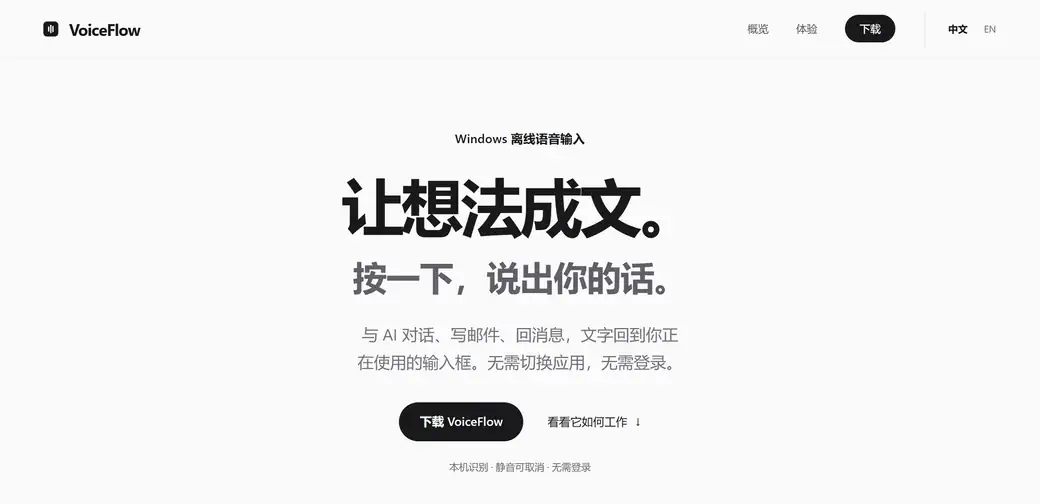
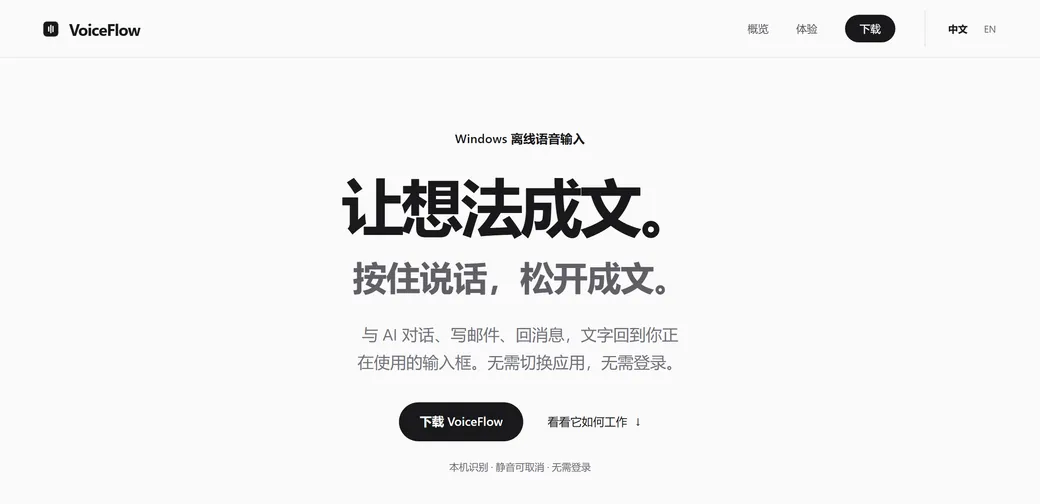
VoiceFlow v0.3.12：作品页和首页演示改为按住说话，官网图重截，926 项测试

Changed region(s): [[0.3692, 0.506, 0.6462, 0.5952]]

diff --git a/work/voiceflow/index.html b/work/voiceflow/index.html
@@ -3,7 +3,7 @@
 <head>
 <meta charset="utf-8">
 <meta name="viewport" content="width=device-width, initial-scale=1, viewport-fit=cover">
-<title>VoiceFlow：按一下，说话，文字就出现在光标处 · 秦徐俊</title>
+<title>VoiceFlow：按住说话，松开，文字就出现在光标处 · 秦徐俊</title>
 <meta name="description" content="Windows 上的语音输入，全程在本机，不联网，不用登录。">
 <meta name="color-scheme" content="light dark">
 <meta name="theme-color" content="#ffffff">
@@ -18,7 +18,7 @@
 <link rel="alternate" hreflang="en" href="https://qinxujunai.github.io/en/work/voiceflow/">
 <link rel="alternate" hreflang="x-default" href="https://qinxujunai.github.io/work/voiceflow/">
 <meta property="og:type" content="website">
-<meta property="og:title" content="VoiceFlow：按一下，说话，文字就出现在光标处 · 秦徐俊">
+<meta property="og:title" content="VoiceFlow：按住说话，松开，文字就出现在光标处 · 秦徐俊">
 <meta property="og:description" content="Windows 上的语音输入，全程在本机，不联网，不用登录。">
 <meta property="og:url" content="https://qinxujunai.github.io/work/voiceflow/">
 <meta property="og:image" content="https://qinxujunai.github.io/og.png">
@@ -27,7 +27,7 @@
 <meta itemprop="image" content="https://qinxujunai.github.io/share.png">
 <meta name="twitter:card" content="summary_large_image">
 <meta name="author" content="秦徐俊">
-<script src="/assets/site.js?v=1ef3cf9a71" defer></script>
+<script src="/assets/site.js?v=f02f074eb1" defer></script>
 </head>
 <body class="case-page">
 <a class="skip" href="#main">跳到正文</a>
@@ -53,12 +53,12 @@
 <article class="case" aria-labelledby="case-title">
 <header class="tile plain case-head" id="top">
 <p class="eyebrow">VoiceFlow · 怎么做的</p>
-<h1 id="case-title"><span class="clause">按<wbr>一下</span> <span class="clause">说话</span> <span class="clause">文字<wbr>就<wbr>出现<wbr>在<wbr>光标处</span></h1>
+<h1 id="case-title"><span class="clause">按住<wbr>说话</span> <span class="clause">松开</span> <span class="clause">文字<wbr>就<wbr>出现<wbr>在<wbr>光标处</span></h1>
 <p class="sub"><span class="clause">Windows 上<wbr>的<wbr>语音<wbr>输入</span> <span class="clause">全程<wbr>在<wbr>本<wbr>机</span> <span class="clause">不<wbr>联<wbr>网</span> <span class="clause">不用<wbr>登录</span></p>
 <p class="cta"><a class="more-link" href="https://github.com/qinxujunai/VoiceFlow/releases/latest" rel="noopener"><span class="lt">下载 Windows 版</span><span class="chev out" aria-hidden="true">↗</span><span class="visually-hidden"> VoiceFlow</span></a></p>
 <div class="case-frame"><div class="frame">
 
-<span class="frame-view"><picture><source media="(max-width: 733px)" srcset="/assets/media/site-voiceflow-card-1080.webp" width="1080" height="1440"><img class="frame-img" src="/assets/media/site-voiceflow-1040.webp" srcset="/assets/media/site-voiceflow-1040.webp 1040w, /assets/media/site-voiceflow-2080.webp 2080w" sizes="1040px" width="1040" height="504" alt="VoiceFlow 的网站：让想法成文。按一下，说出你的话。" loading="lazy" decoding="async"></picture></span>
+<span class="frame-view"><picture><source media="(max-width: 733px)" srcset="/assets/media/site-voiceflow-card-1080.webp" width="1080" height="1440"><img class="frame-img" src="/assets/media/site-voiceflow-1040.webp" srcset="/assets/media/site-voiceflow-1040.webp 1040w, /assets/media/site-voiceflow-2080.webp 2080w" sizes="1040px" width="1040" height="504" alt="VoiceFlow 的网站：让想法成文。按住说话，松开成文。" loading="lazy" decoding="async"></picture></span>
 </div></div>
 </header>
 <section class="tile dark results" aria-labelledby="results-title">
@@ -66,7 +66,7 @@
 <dl class="facts">
 <div><dt>GitHub Star</dt><dd data-count="124"><!--live-->124<!--/live--></dd></div>
 <div><dt>0–10 秒<wbr>录音<wbr>至<wbr>发出<wbr>粘贴<wbr>指令，<wbr>v0.3.1 测试<wbr>第 95 百分<wbr>位</dt><dd>427 ms</dd></div>
-<div><dt>v0.3.10 自动<wbr>化<wbr>测试<wbr>（2026-10-22）</dt><dd>829 项</dd></div>
+<div><dt>v0.3.12 自动<wbr>化<wbr>测试<wbr>（2026-11-03）</dt><dd>926 项</dd></div>
 <div><dt>截至 2026-10-22 的<wbr>正式<wbr>发布</dt><dd>16 次</dd></div>
 </dl>
 <p class="footnote"><!--live-->GitHub 数据<wbr>每 6 小时<wbr>自动<wbr>更新，<wbr>最近<wbr>一次 <span class="nw">2026-11-06</span><!--/live--></p>
@@ -87,7 +87,7 @@
 <p>我<wbr>用<wbr>语音<wbr>跟 AI 聊天、<wbr>做<wbr>开发，<wbr>一<wbr>说<wbr>就是<wbr>五<wbr>六<wbr>分钟，<wbr>甚至<wbr>十<wbr>几<wbr>分钟。</p>
 <p>试过<wbr>的<wbr>工具<wbr>各有<wbr>各<wbr>的<wbr>好：<wbr>国外<wbr>有能<wbr>用 AI 校<wbr>对<wbr>的，<wbr>要<wbr>付<wbr>费；<wbr>国内<wbr>的<wbr>输入<wbr>法<wbr>识别<wbr>得<wbr>很好。<wbr>但<wbr>我<wbr>碰到<wbr>三<wbr>个<wbr>问题。<wbr>第一，<wbr>说<wbr>完<wbr>一<wbr>结束，<wbr>网<wbr>一<wbr>卡，<wbr>整段<wbr>话<wbr>就<wbr>没了。<wbr>第二，<wbr>最后<wbr>几<wbr>句<wbr>常常<wbr>识别<wbr>不出来，<wbr>可<wbr>我要<wbr>的是<wbr>完整：<wbr>说<wbr>到<wbr>最后<wbr>一个<wbr>字，<wbr>就得<wbr>出来<wbr>最后<wbr>一个<wbr>字。<wbr>第三，<wbr>光<wbr>标<wbr>不在<wbr>输入<wbr>框<wbr>里，<wbr>说<wbr>完<wbr>的话<wbr>直接<wbr>消失。</p>
 <p>所以<wbr>我<wbr>想要<wbr>一个<wbr>全<wbr>在<wbr>本<wbr>机<wbr>跑<wbr>的<wbr>工具：<wbr>终稿<wbr>识别<wbr>处理<wbr>完整录音，<wbr>并<wbr>尝试<wbr>将<wbr>结果<wbr>复制<wbr>到<wbr>剪贴板、<wbr>保存<wbr>到<wbr>本地<wbr>历史。<wbr>识别<wbr>或<wbr>保存<wbr>可能<wbr>失败，<wbr>部分<wbr>应用<wbr>需要<wbr>手<wbr>动<wbr>粘贴。</p>
-<p>正在<wbr>验证<wbr>的<wbr>开发<wbr>版<wbr>支持<wbr>按住 F2 或<wbr>右 Ctrl 说话、<wbr>松开<wbr>结束，<wbr>也<wbr>保留<wbr>轻<wbr>按<wbr>切换。<wbr>正式<wbr>下载<wbr>版<wbr>目前<wbr>仍<wbr>使用<wbr>轻<wbr>按<wbr>切换。</p>
+<p>从 v0.3.12 起，<wbr>按住 F2 或<wbr>右 Ctrl 说话、<wbr>松开<wbr>结束，<wbr>也<wbr>保留<wbr>轻<wbr>按<wbr>切换。</p>
 </section>
 <section class="case-sec" id="s2" aria-labelledby="s2-title">
 <h2 id="s2-title"><span class="clause">快<wbr>和<wbr>准，</span><span class="clause">交给<wbr>两<wbr>个<wbr>模型</span></h2>
@@ -127,12 +127,12 @@
 <h2 id="s8-title"><span class="clause">验证</span></h2>
 <p>v0.3.1 在<wbr>发布<wbr>机上<wbr>实<wbr>测<wbr>（Windows 11 · Ryzen 7 5800H）。<wbr>每一<wbr>档 20 个<wbr>样本，<wbr>数字<wbr>是 <span class="nw">95%</span> 的<wbr>情况<wbr>都能<wbr>做到<wbr>的<wbr>值：</p>
 <ul class="metrics"><li><span class="m-v">6 ms</span><span class="m-l">按下 F2 到<wbr>第一<wbr>帧<wbr>反馈</span><span class="m-g">门槛 ≤ 50 ms</span></li><li><span class="m-v">427 ms</span><span class="m-l">10 秒<wbr>内的<wbr>录音，<wbr>停止<wbr>到<wbr>发出<wbr>粘贴<wbr>指令</span><span class="m-g">门槛 ≤ 500 ms</span></li><li><span class="m-v">541 ms</span><span class="m-l">两分钟<wbr>录音，<wbr>停止<wbr>到<wbr>发出<wbr>粘贴<wbr>指令</span><span class="m-g">门槛 ≤ 2.5 s</span></li><li><span class="m-v">1,024 MB</span><span class="m-l">安装<wbr>后<wbr>私有<wbr>内存<wbr>（v0.3.1）</span><span class="m-g">早期 1,324.6 MB</span></li></ul>
-<ul class="bullets"><li>v0.3.10 于 2026 年 10 月 22 日<wbr>通过 829 项<wbr>自动<wbr>化<wbr>测试；<wbr>v0.3.3 时<wbr>是 396 项。</li><li>500 次<wbr>录音<wbr>生命<wbr>周期，<wbr>10,000 组<wbr>随机<wbr>的<wbr>开始、<wbr>停止、<wbr>取消、<wbr>退出<wbr>序列，<wbr>50,000 个<wbr>异常<wbr>文本<wbr>模糊<wbr>用例。</li><li>从 v0.3.2 起，<wbr>每<wbr>个<wbr>版本<wbr>都<wbr>附<wbr>一份<wbr>发布<wbr>与<wbr>验证<wbr>记录。</li><li>用户<wbr>提过<wbr>的 12 条<wbr>反馈，<wbr>每<wbr>条<wbr>都<wbr>写下<wbr>结论<wbr>和<wbr>理由：<wbr>采纳、<wbr>按<wbr>门槛<wbr>暂<wbr>缓，<wbr>或者<wbr>拒绝。</li></ul>
+<ul class="bullets"><li>v0.3.12 于 2026 年 11 月 3 日<wbr>通过 926 项<wbr>自动<wbr>化<wbr>测试；<wbr>v0.3.3 时<wbr>是 396 项。</li><li>500 次<wbr>录音<wbr>生命<wbr>周期，<wbr>10,000 组<wbr>随机<wbr>的<wbr>开始、<wbr>停止、<wbr>取消、<wbr>退出<wbr>序列，<wbr>50,000 个<wbr>异常<wbr>文本<wbr>模糊<wbr>用例。</li><li>从 v0.3.2 起，<wbr>每<wbr>个<wbr>版本<wbr>都<wbr>附<wbr>一份<wbr>发布<wbr>与<wbr>验证<wbr>记录。</li><li>用户<wbr>提过<wbr>的 12 条<wbr>反馈，<wbr>每<wbr>条<wbr>都<wbr>写下<wbr>结论<wbr>和<wbr>理由：<wbr>采纳、<wbr>按<wbr>门槛<wbr>暂<wbr>缓，<wbr>或者<wbr>拒绝。</li></ul>
 <p>这些<wbr>是<wbr>延迟<wbr>和<wbr>机制<wbr>的<wbr>证据，<wbr>不是<wbr>准确<wbr>率。<wbr>项目<wbr>的<wbr>规矩：<wbr>没有<wbr>足够<wbr>的<wbr>授权<wbr>真实<wbr>语<wbr>料，<wbr>就不<wbr>对外<wbr>宣称<wbr>准确<wbr>率。</p>
 </section>
 <section class="case-sec" id="s9" aria-labelledby="s9-title">
 <h2 id="s9-title"><span class="clause">历程</span></h2>
-<ol class="timeline"><li><span class="when">2026.05.23</span><span>第一次<wbr>提交</span></li><li><span class="when">2026.07.04</span><span>v0.1.0 发布</span></li><li><span class="when">2026.07.28</span><span>v0.2.0：<wbr>逐条<wbr>回应 12 条<wbr>用户<wbr>反馈</span></li><li><span class="when">2026.08.10</span><span>v0.3.0：<wbr>可<wbr>恢复<wbr>的<wbr>会话，<wbr>交付<wbr>前<wbr>先<wbr>核对<wbr>剪贴板</span></li><li><span class="when">2026.08.25</span><span>v0.3.2：<wbr>三<wbr>个<wbr>受监督<wbr>的<wbr>子进程，<wbr>每<wbr>版<wbr>附<wbr>发布<wbr>证据</span></li><li><span class="when">2026.10.11</span><span>v0.3.8：<wbr>原生<wbr>胶囊</span></li><li><span class="when">2026.10.21</span><span>v0.3.9：<wbr>设置<wbr>只留<wbr>一个<wbr>保存<wbr>入口，<wbr>词典<wbr>可以<wbr>搜索、<wbr>批量<wbr>删除、<wbr>撤销；<wbr>822 项<wbr>测试</span></li><li><span class="when">2026.10.22</span><span>v0.3.10：<wbr>设置<wbr>界面<wbr>按<wbr>系统<wbr>设置<wbr>的<wbr>样子<wbr>重做；<wbr>识别<wbr>中的<wbr>字<wbr>逐<wbr>个<wbr>淡<wbr>入，<wbr>终稿<wbr>原地<wbr>替换<wbr>草稿；<wbr>829 项<wbr>测试</span></li><li><span class="when">2026.10.28</span><span>v0.3.11：<wbr>说话<wbr>停顿<wbr>时<wbr>先<wbr>在<wbr>后台<wbr>识别，<wbr>停下<wbr>后<wbr>出<wbr>字<wbr>更<wbr>快；<wbr>长<wbr>句<wbr>接缝<wbr>不再<wbr>重复<wbr>字；<wbr>胶囊<wbr>展开<wbr>更<wbr>平滑；<wbr>862 项<wbr>测试</span></li><li><span class="when">2026.11.03</span><span>开发<wbr>版：<wbr>按住 F2 或<wbr>右 Ctrl 说话，<wbr>松开<wbr>结束；<wbr>轻<wbr>按<wbr>仍<wbr>可<wbr>切换。<wbr>长<wbr>句<wbr>标点<wbr>和<wbr>术语<wbr>还原<wbr>继续<wbr>打磨，<wbr>尚未<wbr>包含<wbr>在<wbr>正式<wbr>下载<wbr>版<wbr>中</span></li></ol>
+<ol class="timeline"><li><span class="when">2026.05.23</span><span>第一次<wbr>提交</span></li><li><span class="when">2026.07.04</span><span>v0.1.0 发布</span></li><li><span class="when">2026.07.28</span><span>v0.2.0：<wbr>逐条<wbr>回应 12 条<wbr>用户<wbr>反馈</span></li><li><span class="when">2026.08.10</span><span>v0.3.0：<wbr>可<wbr>恢复<wbr>的<wbr>会话，<wbr>交付<wbr>前<wbr>先<wbr>核对<wbr>剪贴板</span></li><li><span class="when">2026.08.25</span><span>v0.3.2：<wbr>三<wbr>个<wbr>受监督<wbr>的<wbr>子进程，<wbr>每<wbr>版<wbr>附<wbr>发布<wbr>证据</span></li><li><span class="when">2026.10.11</span><span>v0.3.8：<wbr>原生<wbr>胶囊</span></li><li><span class="when">2026.10.21</span><span>v0.3.9：<wbr>设置<wbr>只留<wbr>一个<wbr>保存<wbr>入口，<wbr>词典<wbr>可以<wbr>搜索、<wbr>批量<wbr>删除、<wbr>撤销；<wbr>822 项<wbr>测试</span></li><li><span class="when">2026.10.22</span><span>v0.3.10：<wbr>设置<wbr>界面<wbr>按<wbr>系统<wbr>设置<wbr>的<wbr>样子<wbr>重做；<wbr>识别<wbr>中的<wbr>字<wbr>逐<wbr>个<wbr>淡<wbr>入，<wbr>终稿<wbr>原地<wbr>替换<wbr>草稿；<wbr>829 项<wbr>测试</span></li><li><span class="when">2026.10.28</span><span>v0.3.11：<wbr>说话<wbr>停顿<wbr>时<wbr>先<wbr>在<wbr>后台<wbr>识别，<wbr>停下<wbr>后<wbr>出<wbr>字<wbr>更<wbr>快；<wbr>长<wbr>句<wbr>接缝<wbr>不再<wbr>重复<wbr>字；<wbr>胶囊<wbr>展开<wbr>更<wbr>平滑；<wbr>862 项<wbr>测试</span></li><li><span class="when">2026.11.03</span><span>v0.3.12：<wbr>按住 F2 或<wbr>右 Ctrl 说话，<wbr>松开<wbr>结束，<wbr>轻<wbr>按<wbr>仍<wbr>可<wbr>切换；<wbr>粘贴<wbr>发出<wbr>后<wbr>胶囊<wbr>直接<wbr>收起；<wbr>长<wbr>句<wbr>分段<wbr>处<wbr>不再<wbr>多<wbr>出<wbr>句号，<wbr>词<wbr>库<wbr>术语<wbr>能<wbr>还原<wbr>拆开<wbr>的<wbr>写法；<wbr>926 项<wbr>测试</span></li></ol>
 </section>
 </details>
 <section class="case-sec" id="s10" aria-labelledby="s10-title">

diff --git a/en/work/voiceflow/index.html b/en/work/voiceflow/index.html
@@ -3,7 +3,7 @@
 <head>
 <meta charset="utf-8">
 <meta name="viewport" content="width=device-width, initial-scale=1, viewport-fit=cover">
-<title>VoiceFlow: Press a key, talk, and the words appear at your cursor · Qin Xujun</title>
+<title>VoiceFlow: Hold a key, talk, let go, and the words appear at your cursor · Qin Xujun</title>
 <meta name="description" content="Voice typing for Windows that runs entirely on the device: no internet, no account.">
 <meta name="color-scheme" content="light dark">
 <meta name="theme-color" content="#ffffff">
@@ -18,7 +18,7 @@
 <link rel="alternate" hreflang="en" href="https://qinxujunai.github.io/en/work/voiceflow/">
 <link rel="alternate" hreflang="x-default" href="https://qinxujunai.github.io/work/voiceflow/">
 <meta property="og:type" content="website">
-<meta property="og:title" content="VoiceFlow: Press a key, talk, and the words appear at your cursor · Qin Xujun">
+<meta property="og:title" content="VoiceFlow: Hold a key, talk, let go, and the words appear at your cursor · Qin Xujun">
 <meta property="og:description" content="Voice typing for Windows that runs entirely on the device: no internet, no account.">
 <meta property="og:url" content="https://qinxujunai.github.io/en/work/voiceflow/">
 <meta property="og:image" content="https://qinxujunai.github.io/og.png">
@@ -27,7 +27,7 @@
 <meta itemprop="image" content="https://qinxujunai.github.io/share.png">
 <meta name="twitter:card" content="summary_large_image">
 <meta name="author" content="Qin Xujun">
-<script src="/assets/site.js?v=1ef3cf9a71" defer></script>
+<script src="/assets/site.js?v=f02f074eb1" defer></script>
 </head>
 <body class="case-page">
 <a class="skip" href="#main">Skip to content</a>
@@ -53,12 +53,12 @@
 <article class="case" aria-labelledby="case-title">
 <header class="tile plain case-head" id="top">
 <p class="eyebrow">VoiceFlow · How it was made</p>
-<h1 id="case-title">Press a key, talk, and the words appear at your cursor</h1>
+<h1 id="case-title">Hold a key, talk, let go, and the words appear at your cursor</h1>
 <p class="sub">Voice typing for Windows that runs entirely on the device: no internet, no account</p>
 <p class="cta"><a class="more-link" href="https://github.com/qinxujunai/VoiceFlow/releases/latest" rel="noopener"><span class="lt">Download for Windows</span><span class="chev out" aria-hidden="true">↗</span><span class="visually-hidden"> VoiceFlow</span></a></p>
 <div class="case-frame"><div class="frame">
 
-<span class="frame-view"><picture><source media="(max-width: 733px)" srcset="/assets/media/site-voiceflow-card-1080.webp" width="1080" height="1440"><img class="frame-img" src="/assets/media/site-voiceflow-1040.webp" srcset="/assets/media/site-voiceflow-1040.webp 1040w, /assets/media/site-voiceflow-2080.webp 2080w" sizes="1040px" width="1040" height="504" alt="The VoiceFlow website (in Chinese): let ideas take shape. Press once, say what you mean." loading="lazy" decoding="async"></picture></span>
+<span class="frame-view"><picture><source media="(max-width: 733px)" srcset="/assets/media/site-voiceflow-card-1080.webp" width="1080" height="1440"><img class="frame-img" src="/assets/media/site-voiceflow-1040.webp" srcset="/assets/media/site-voiceflow-1040.webp 1040w, /assets/media/site-voiceflow-2080.webp 2080w" sizes="1040px" width="1040" height="504" alt="The VoiceFlow website (in Chinese): let ideas take shape. Hold to speak, let go to write." loading="lazy" decoding="async"></picture></span>
 </div></div>
 </header>
 <section class="tile dark results" aria-labelledby="results-title">
@@ -66,7 +66,7 @@
 <dl class="facts">
 <div><dt>GitHub stars</dt><dd data-count="124"><!--live-->124<!--/live--></dd></div>
 <div><dt>Stop to paste dispatch, 0–10 s clips; v0.3.1, 95th percentile</dt><dd>427 ms</dd></div>
-<div><dt>Tests on v0.3.10 (22 Oct 2026)</dt><dd>829</dd></div>
+<div><dt>Tests on v0.3.12 (3 Nov 2026)</dt><dd>926</dd></div>
 <div><dt>Releases as of 22 Oct 2026</dt><dd>16</dd></div>
 </dl>
 <p class="footnote"><!--live-->GitHub numbers refresh every six hours, last on <span class="nw">2026-11-06</span><!--/live--></p>
@@ -87,7 +87,7 @@
 <p>I talk to AI by voice while I chat and build, often for five or six minutes at a time, sometimes more than ten.</p>
 <p>The tools I tried each had strengths: one from abroad could clean up text with AI, for a fee; the voice input on Chinese phones and PCs recognised speech well. But I kept hitting three problems. First, when I stopped, one network hiccup and the whole passage was gone. Second, the last few sentences often never appeared, when what I needed was all of it: the last word I say should be the last word on screen. Third, if the cursor wasn’t in a text box, everything I said simply vanished.</p>
 <p>So I wanted a tool that runs on my own computer: final recognition processes the full recording and tries to copy the result to the clipboard and save it in local history. Recognition or saving can fail, and some apps need a manual paste.</p>
-<p>The development build is testing hold-to-speak with F2 or right Ctrl, alongside tap-to-toggle. The current public download uses tap-to-toggle.</p>
+<p>Since v0.3.12, hold F2 or right Ctrl to speak and release to stop; tap-to-toggle still works.</p>
 </section>
 <section class="case-sec" id="s2" aria-labelledby="s2-title">
 <h2 id="s2-title">Speed and accuracy, split between two models</h2>
@@ -127,12 +127,12 @@
 <h2 id="s8-title">Evidence</h2>
 <p>Measured for v0.3.1 on the release machine (Windows 11, Ryzen 7 5800H). 20 samples per bucket; each number holds in 95% of cases:</p>
 <ul class="metrics"><li><span class="m-v">6 ms</span><span class="m-l">F2 to first feedback</span><span class="m-g">Gate ≤ 50 ms</span></li><li><span class="m-v">427 ms</span><span class="m-l">Clips under 10 s, stop to paste dispatch</span><span class="m-g">Gate ≤ 500 ms</span></li><li><span class="m-v">541 ms</span><span class="m-l">Two-minute clips, stop to paste dispatch</span><span class="m-g">Gate ≤ 2.5 s</span></li><li><span class="m-v">1,024 MB</span><span class="m-l">Private memory after install (v0.3.1)</span><span class="m-g">Earlier 1,324.6 MB</span></li></ul>
-<ul class="bullets"><li>829 automated tests passed for v0.3.10 on 22 Oct 2026, up from 396 at v0.3.3.</li><li>500 recording lifecycles, 10,000 random start, stop, cancel and exit sequences, 50,000 malformed-text fuzz cases.</li><li>Since v0.3.2, every release ships with a release and verification record.</li><li>Twelve pieces of user feedback, each with a written decision and reason: adopted, deferred behind a gate, or declined.</li></ul>
+<ul class="bullets"><li>926 automated tests passed for v0.3.12 on 3 Nov 2026, up from 396 at v0.3.3.</li><li>500 recording lifecycles, 10,000 random start, stop, cancel and exit sequences, 50,000 malformed-text fuzz cases.</li><li>Since v0.3.2, every release ships with a release and verification record.</li><li>Twelve pieces of user feedback, each with a written decision and reason: adopted, deferred behind a gate, or declined.</li></ul>
 <p>This is evidence about latency and mechanics, not accuracy. The project’s rule: no accuracy claims without enough authorized real speech.</p>
 </section>
 <section class="case-sec" id="s9" aria-labelledby="s9-title">
 <h2 id="s9-title">Timeline</h2>
-<ol class="timeline"><li><span class="when">2026.05.23</span><span>First commit</span></li><li><span class="when">2026.07.04</span><span>v0.1.0 released</span></li><li><span class="when">2026.07.28</span><span>v0.2.0: a written answer to all 12 pieces of user feedback</span></li><li><span class="when">2026.08.10</span><span>v0.3.0: recoverable sessions; the clipboard is verified before delivery</span></li><li><span class="when">2026.08.25</span><span>v0.3.2: three supervised workers; evidence with every release</span></li><li><span class="when">2026.10.11</span><span>v0.3.8: native capsule</span></li><li><span class="when">2026.10.21</span><span>v0.3.9: one Save button in settings; a dictionary you can search, bulk-delete and undo; 822 tests</span></li><li><span class="when">2026.10.22</span><span>v0.3.10: settings redesigned after the system Settings app; words fade in as they’re recognised, and the final text replaces the draft in place; 829 tests</span></li><li><span class="when">2026.10.28</span><span>v0.3.11: recognition starts during a pause, so text arrives sooner after stopping; no repeated words at long-recording seams; a smoother capsule; 862 tests</span></li><li><span class="when">2026.11.03</span><span>Development build: hold F2 or right Ctrl to speak and release to stop; tap to toggle still works. Long-form punctuation and term restoration are being refined. Not yet in the public release</span></li></ol>
+<ol class="timeline"><li><span class="when">2026.05.23</span><span>First commit</span></li><li><span class="when">2026.07.04</span><span>v0.1.0 released</span></li><li><span class="when">2026.07.28</span><span>v0.2.0: a written answer to all 12 pieces of user feedback</span></li><li><span class="when">2026.08.10</span><span>v0.3.0: recoverable sessions; the clipboard is verified before delivery</span></li><li><span class="when">2026.08.25</span><span>v0.3.2: three supervised workers; evidence with every release</span></li><li><span class="when">2026.10.11</span><span>v0.3.8: native capsule</span></li><li><span class="when">2026.10.21</span><span>v0.3.9: one Save button in settings; a dictionary you can search, bulk-delete and undo; 822 tests</span></li><li><span class="when">2026.10.22</span><span>v0.3.10: settings redesigned after the system Settings app; words fade in as they’re recognised, and the final text replaces the draft in place; 829 tests</span></li><li><span class="when">2026.10.28</span><span>v0.3.11: recognition starts during a pause, so text arrives sooner after stopping; no repeated words at long-recording seams; a smoother capsule; 862 tests</span></li><li><span class="when">2026.11.03</span><span>v0.3.12: hold F2 or right Ctrl to speak and release to stop, and tap to toggle still works; the capsule fades once the paste is sent; no stray full stops where long dictation is joined, and split dictionary terms are restored; 926 tests</span></li></ol>
 </section>
 </details>
 <section class="case-sec" id="s10" aria-labelledby="s10-title">

diff --git a/index.html b/index.html
@@ -27,7 +27,7 @@
 <meta itemprop="image" content="https://qinxujunai.github.io/share.png">
 <meta name="twitter:card" content="summary_large_image">
 <meta name="author" content="秦徐俊">
-<script src="/assets/site.js?v=1ef3cf9a71" defer></script>
+<script src="/assets/site.js?v=f02f074eb1" defer></script>
 </head>
 <body class="home">
 <a class="skip" href="#main">跳到正文</a>
@@ -73,13 +73,13 @@
 <div class="show-stage">
 <div class="show-head">
 <h3 id="voiceflow-title" class="show-name">VoiceFlow</h3>
-<p class="show-line"><span class="clause">按 F2 说话</span> <span class="clause">字<wbr>直接<wbr>打<wbr>在<wbr>光标处</span></p>
+<p class="show-line"><span class="clause">按住 F2 说话</span> <span class="clause">字<wbr>直接<wbr>打<wbr>在<wbr>光标处</span></p>
 </div>
 <a class="demo-link" href="/work/voiceflow/"><span class="visually-hidden">怎么做的 VoiceFlow</span><div class="demo case-demo" aria-hidden="true">
 <kbd>F2</kbd>
 <div class="capsule"><span class="bars"><i></i><i></i><i></i></span><span class="typed" data-lines="[&quot;请比较这两份方案的成本与风险，再给出你的建议。&quot;,&quot;明早十点，把方案同步给团队。&quot;,&quot;这周的方案已经整理好了，明天一起看看。&quot;]">请比较这两份方案的成本与风险，再给出你的建议。</span><span class="caret"></span></div>
 <span class="demo-paste" aria-hidden="true"></span>
-<p class="hint">按一下开始，再按一下完成</p>
+<p class="hint">按住说话，松开就输入</p>
 </div></a>
 <blockquote class="story"><p class="story-label">为什么做</p><p>我<wbr>常<wbr>对<wbr>着 AI 一<wbr>说<wbr>就是<wbr>十<wbr>几<wbr>分钟。<wbr>用<wbr>过的<wbr>输入<wbr>法，<wbr>网<wbr>一<wbr>卡，<wbr>整段<wbr>话<wbr>就<wbr>没了；<wbr>最后<wbr>几<wbr>句<wbr>常常<wbr>出<wbr>不<wbr>来；<wbr>光<wbr>标<wbr>不在<wbr>输入<wbr>框，<wbr>说<wbr>完<wbr>的话<wbr>直接<wbr>消失。<wbr>所以<wbr>我<wbr>做了<wbr>一个<wbr>全<wbr>在<wbr>本<wbr>机<wbr>跑<wbr>的<wbr>工具，<wbr>终稿<wbr>识别<wbr>会<wbr>覆盖<wbr>完整录音。</p></blockquote>
 <div class="show-foot">

diff --git a/en/index.html b/en/index.html
@@ -27,7 +27,7 @@
 <meta itemprop="image" content="https://qinxujunai.github.io/share.png">
 <meta name="twitter:card" content="summary_large_image">
 <meta name="author" content="Qin Xujun">
-<script src="/assets/site.js?v=1ef3cf9a71" defer></script>
+<script src="/assets/site.js?v=f02f074eb1" defer></script>
 </head>
 <body class="home">
 <a class="skip" href="#main">Skip to content</a>
@@ -73,13 +73,13 @@
 <div class="show-stage">
 <div class="show-head">
 <h3 id="voiceflow-title" class="show-name">VoiceFlow</h3>
-<p class="show-line">Press F2, speak, and the words land at your cursor</p>
+<p class="show-line">Hold F2, speak, and the words land at your cursor</p>
 </div>
 <a class="demo-link" href="/en/work/voiceflow/"><span class="visually-hidden">How it was made VoiceFlow</span><div class="demo case-demo" aria-hidden="true">
 <kbd>F2</kbd>
 <div class="capsule"><span class="bars"><i></i><i></i><i></i></span><span class="typed" data-lines="[&quot;Compare the costs and risks of these two proposals, then recommend an approach.&quot;,&quot;Share the plan with the team at ten.&quot;,&quot;The proposal is ready. Let’s go over it tomorrow.&quot;]">Compare the costs and risks of these two proposals, then recommend an approach.</span><span class="caret"></span></div>
 <span class="demo-paste" aria-hidden="true"></span>
-<p class="hint">Press to start, press again to finish</p>
+<p class="hint">Hold to speak, release to insert</p>
 </div></a>
 <blockquote class="story"><p class="story-label">Why I built it</p><p>I often talk to an AI for ten minutes or more at a time. With the voice input I used, one network hiccup and the whole passage was gone; the last few sentences often never appeared; if the cursor wasn’t in a text box, everything I said simply vanished. So I built a tool that runs on my own computer and recognizes the complete recording for the final transcript.</p></blockquote>
 <div class="show-foot">

diff --git a/assets/site.js b/assets/site.js
@@ -120,8 +120,8 @@
     var measure = document.createElement('canvas').getContext('2d');
     var line = 0, pos = 0, timer = null, running = false;
     var startCapsule = function () { demoBox.classList.add('is-starting'); pos = 0; if (pasted) pasted.textContent = ''; capsule.classList.remove('is-delivered'); typed.textContent = ''; capsule.style.width = '86px'; timer = setTimeout(step, 550); };
+    // Hold to talk (v0.3.12): F2 goes down at the start, stays down while the capsule writes, and comes up at the end.
     var step = function () {
-      demoBox.classList.remove('is-starting');
       var chars = Array.from(lines[line]);
       if (pos <= chars.length) {
         var shown = chars.slice(0, pos);
@@ -133,8 +133,8 @@
         pos++;
         timer = setTimeout(step, Math.max(17, 48 - Math.min(31, (chars.length - pos) * 2)));
       } else {
-        capsule.classList.remove('listening'); demoBox.classList.add('is-starting');
-        timer = setTimeout(function () { demoBox.classList.remove('is-starting'); capsule.classList.add('is-delivered'); if (pasted) pasted.textContent = lines[line]; timer = setTimeout(function () { line = (line + 1) % lines.length; startCapsule(); }, 1800); }, 650);
+        capsule.classList.remove('listening'); demoBox.classList.remove('is-starting');
+        timer = setTimeout(function () { capsule.classList.add('is-delivered'); if (pasted) pasted.textContent = lines[line]; timer = setTimeout(function () { line = (line + 1) % lines.length; startCapsule(); }, 1800); }, 650);
       }
     };
     new IntersectionObserver(function (entries) {

diff --git a/work/ai-signal/index.html b/work/ai-signal/index.html
@@ -27,7 +27,7 @@
 <meta itemprop="image" content="https://qinxujunai.github.io/share.png">
 <meta name="twitter:card" content="summary_large_image">
 <meta name="author" content="秦徐俊">
-<script src="/assets/site.js?v=1ef3cf9a71" defer></script>
+<script src="/assets/site.js?v=f02f074eb1" defer></script>
 </head>
 <body class="case-page">
 <a class="skip" href="#main">跳到正文</a>
@@ -150,7 +150,7 @@
 <div class="card-grid two">
 <article class="card-tile product-card reveal">
 <p class="eyebrow">VoiceFlow</p>
-<h3><a href="/work/voiceflow/"><span class="clause">按 F2 说话</span> <span class="clause">字<wbr>直接<wbr>打<wbr>在<wbr>光标处</span></a></h3>
+<h3><a href="/work/voiceflow/"><span class="clause">按住 F2 说话</span> <span class="clause">字<wbr>直接<wbr>打<wbr>在<wbr>光标处</span></a></h3>
 <p class="card-line"><span class="clause">Windows 语音<wbr>输入</span> · <span class="clause">装<wbr>好<wbr>后<wbr>断<wbr>网<wbr>也能<wbr>用</span> · <span class="clause">免费<wbr>开<wbr>源</span></p>
 <p class="card-more" aria-hidden="true">怎么做的<span class="chev" aria-hidden="true">›</span></p>
 </article>

diff --git a/work/wanxiang/index.html b/work/wanxiang/index.html
@@ -27,7 +27,7 @@
 <meta itemprop="image" content="https://qinxujunai.github.io/share.png">
 <meta name="twitter:card" content="summary_large_image">
 <meta name="author" content="秦徐俊">
-<script src="/assets/site.js?v=1ef3cf9a71" defer></script>
+<script src="/assets/site.js?v=f02f074eb1" defer></script>
 </head>
 <body class="case-page">
 <a class="skip" href="#main">跳到正文</a>
@@ -151,7 +151,7 @@
 <div class="card-grid two">
 <article class="card-tile product-card reveal">
 <p class="eyebrow">VoiceFlow</p>
-<h3><a href="/work/voiceflow/"><span class="clause">按 F2 说话</span> <span class="clause">字<wbr>直接<wbr>打<wbr>在<wbr>光标处</span></a></h3>
+<h3><a href="/work/voiceflow/"><span class="clause">按住 F2 说话</span> <span class="clause">字<wbr>直接<wbr>打<wbr>在<wbr>光标处</span></a></h3>
 <p class="card-line"><span class="clause">Windows 语音<wbr>输入</span> · <span class="clause">装<wbr>好<wbr>后<wbr>断<wbr>网<wbr>也能<wbr>用</span> · <span class="clause">免费<wbr>开<wbr>源</span></p>
 <p class="card-more" aria-hidden="true">怎么做的<span class="chev" aria-hidden="true">›</span></p>
 </article>

diff --git a/en/work/ai-signal/index.html b/en/work/ai-signal/index.html
@@ -27,7 +27,7 @@
 <meta itemprop="image" content="https://qinxujunai.github.io/share.png">
 <meta name="twitter:card" content="summary_large_image">
 <meta name="author" content="Qin Xujun">
-<script src="/assets/site.js?v=1ef3cf9a71" defer></script>
+<script src="/assets/site.js?v=f02f074eb1" defer></script>
 </head>
 <body class="case-page">
 <a class="skip" href="#main">Skip to content</a>
@@ -150,7 +150,7 @@
 <div class="card-grid two">
 <article class="card-tile product-card reveal">
 <p class="eyebrow">VoiceFlow</p>
-<h3><a href="/en/work/voiceflow/">Press F2, speak, and the words land at your cursor</a></h3>
+<h3><a href="/en/work/voiceflow/">Hold F2, speak, and the words land at your cursor</a></h3>
 <p class="card-line"><span class="clause">Voice typing for Windows</span> · <span class="clause">Offline after install</span> · <span class="clause">Free, open source</span></p>
 <p class="card-more" aria-hidden="true">How it was made<span class="chev" aria-hidden="true">›</span></p>
 </article>

diff --git a/en/work/wanxiang/index.html b/en/work/wanxiang/index.html
@@ -27,7 +27,7 @@
 <meta itemprop="image" content="https://qinxujunai.github.io/share.png">
 <meta name="twitter:card" content="summary_large_image">
 <meta name="author" content="Qin Xujun">
-<script src="/assets/site.js?v=1ef3cf9a71" defer></script>
+<script src="/assets/site.js?v=f02f074eb1" defer></script>
 </head>
 <body class="case-page">
 <a class="skip" href="#main">Skip to content</a>
@@ -151,7 +151,7 @@
 <div class="card-grid two">
 <article class="card-tile product-card reveal">
 <p class="eyebrow">VoiceFlow</p>
-<h3><a href="/en/work/voiceflow/">Press F2, speak, and the words land at your cursor</a></h3>
+<h3><a href="/en/work/voiceflow/">Hold F2, speak, and the words land at your cursor</a></h3>
 <p class="card-line"><span class="clause">Voice typing for Windows</span> · <span class="clause">Offline after install</span> · <span class="clause">Free, open source</span></p>
 <p class="card-more" aria-hidden="true">How it was made<span class="chev" aria-hidden="true">›</span></p>
 </article>

diff --git a/404.html b/404.html
@@ -24,7 +24,7 @@
 <meta itemprop="image" content="https://qinxujunai.github.io/share.png">
 <meta name="twitter:card" content="summary_large_image">
 <meta name="author" content="秦徐俊">
-<script src="/assets/site.js?v=1ef3cf9a71" defer></script>
+<script src="/assets/site.js?v=f02f074eb1" defer></script>
 </head>
 <body>
 <main class="tile hero lost" id="main">

diff --git a/AGENTS.md b/AGENTS.md
@@ -36,8 +36,8 @@
      - 视频：他导出的 4K 网页版（约 7Mbps），手机和电脑都播这一个。`<video src>` 是当前方案的播放地址，`data-sources` 里接着是另一套；地址来自 `src/film-hosts.json`（`scripts/film-hosts.mjs` 从影片网站发布的 `hosts.json` 抄来，不要手改；`content.mjs` 的 `FILM`）。当前地址出错，或点播放 10 秒连文件头都没拿到，`site.js` 才换另一套，从同一秒接着放；慢、卡住都不换（2026-10-25 他的规则，`scripts/test-player.cjs` 逐种情况验证）。**不要用 `<source>` 子元素**（v27.18：微信安卓内核只读 `src`，用 `<source>` 时微信里放不出来）。`preload="none"`，不点不下载（`qa.mjs` 会拦任何 mp4 请求）。
      - **不要再做 B 站线路**（v26.8 撤下）：v26.6–26.7 试过用他的 B 站投稿做「国内线路」（沙箱嵌入 + 「原画｜国内」开关），他在手机上点播放「直接卡死了」，并说不要新加按钮、不要切换、不要跳转 B 站，「不可以就保留原方案」。在本站播放器里直接放 B 站视频做不到（地址签名、过期、校验 Referer），所以保持一个播放器、一个文件。
      - 海报在首页 `<head>` 里 preload，手机用 960 宽、16KB 的版本：它是手机首屏最大的元素，决定弱网 LCP（实测 2.3 秒）。不要给它加入场动画或 `loading="lazy"`。
-  3. 作品：先是小字「作品」、标题「三个作品，都从我自己的问题开始」和一句「都在线上，打开就能用」（v27.3：原标题「先解决自己的问题」读起来像在教读者）（v23：标题说一件三个故事都能证明的事；v21 的「靠得住」主张和每个作品下的「靠得住，是因为」撤下——他说文案描述多、没做到），再是三个作品（VoiceFlow、AI Signal、万象成文；背景深、浅灰、白交替）。只有两级文字在图上方：名字（一级）、一句承诺式的 `line`（二级：「按 F2 说话，字直接打在光标处」「每天十点，值得看的 AI 消息，一页读完」「贴一个链接，拿回全部文字」）。图下方：先是「为什么做」（`story`，他的第一人称，先痛点后做法），再是一行大白话事实 `note` 和两个链接（三级）：先「怎么做的 ›」（作品页），再「打开 VoiceFlow ↗」这样以产品名命名的按钮。
-     - **首页的图是产品在工作的样子**（`cs.shot`，v21）：VoiceFlow 是胶囊打字演示（`shot: 'capsule'`），AI Signal 是当天那期的**真文字卡片**（`shot: 'signal'`，`signalCard()` 读 `src/signal.json`；v24：截图会过期，卡片每天自动换成最新一期），万象成文是**一次真实处理的完整结果页**（`site-prod-wanxiang`，手机上也用整张，不裁卡片：v26.11 他说要「让人一眼看得到效果」；之前试过裁一张卡（像残片）、官网首屏（看不到效果）、官网长图（一个项目两大段，图里「播放演示」点不动））。作品页顶部仍是官网首屏（`cs.image`）。
+  3. 作品：先是小字「作品」、标题「三个作品，都从我自己的问题开始」和一句「都在线上，打开就能用」（v27.3：原标题「先解决自己的问题」读起来像在教读者）（v23：标题说一件三个故事都能证明的事；v21 的「靠得住」主张和每个作品下的「靠得住，是因为」撤下——他说文案描述多、没做到），再是三个作品（VoiceFlow、AI Signal、万象成文；背景深、浅灰、白交替）。只有两级文字在图上方：名字（一级）、一句承诺式的 `line`（二级：「按住 F2 说话，字直接打在光标处」（2026-11-03 v0.3.12 起是按住说话）「每天十点，值得看的 AI 消息，一页读完」「贴一个链接，拿回全部文字」）。图下方：先是「为什么做」（`story`，他的第一人称，先痛点后做法），再是一行大白话事实 `note` 和两个链接（三级）：先「怎么做的 ›」（作品页），再「打开 VoiceFlow ↗」这样以产品名命名的按钮。
+     - **首页的图是产品在工作的样子**（`cs.shot`，v21）：VoiceFlow 是胶囊打字演示（`shot: 'capsule'`；2026-11-07 起 F2 键按下后一直亮到说完才松开，对应 v0.3.12 的按住说话），AI Signal 是当天那期的**真文字卡片**（`shot: 'signal'`，`signalCard()` 读 `src/signal.json`；v24：截图会过期，卡片每天自动换成最新一期），万象成文是**一次真实处理的完整结果页**（`site-prod-wanxiang`，手机上也用整张，不裁卡片：v26.11 他说要「让人一眼看得到效果」；之前试过裁一张卡（像残片）、官网首屏（看不到效果）、官网长图（一个项目两大段，图里「播放演示」点不动））。作品页顶部仍是官网首屏（`cs.image`）。
      - 作品页的图是作品官网首屏的原样截图，**不画浏览器外框和地址栏**（v18：框里写着地址，读的人会以为「网站里又套了一个网站」）。点图进作品页；作品页、官网的入口都在文字链接上。**图是静止的官网首屏**：从官网顶部（含它自己的导航）裁到它第一张图或下一节之前，按官网自己的边界裁，不用固定比例（v19：16:10 把万象成文的首屏和演示切在一张卡里）。桌面用官网桌面版（`site-*`），手机用官网自己的手机版（`site-*-card`，390 宽截取）。不吸顶、不在图里滚动。**不用手机外框**。
      - VoiceFlow 的 GitHub 数字只在它的作品页。
      - 中文标题、副句只在标点后换行（`lines()` 去逗号分两行，`clauses()` 按逗号、冒号分段）；「A · B · C」这类小字不在一项中间断（`dots()`）。
@@ -55,7 +55,7 @@
   1. 顶部是 apple.com 式的产品栏（`caseNav()`，代替全站导航和面包屑）：「‹ 作品」回到首页这个作品的位置、作品名（点一下回到顶部）、宽屏上的主要章节（`sections` 里带 `nav` 的那几节）、语言、主题，以及蓝色的「打开 XX ↗」按钮（XX 是产品名；窄手机上栏里不再重复产品名）——读到哪里都能一步去用它。
   1.5 开头一行小字「XX · 怎么做的」，说清这页讲的是怎么做出来的，不是产品本身（参照 Apple 设计奖、App Store 故事页）。
   2. 结论式标题。
-  3. 官网首屏截图（静止，不是链接，不画浏览器外框）。VoiceFlow 下面还有胶囊打字演示。
+  3. 官网首屏截图（静止，不是链接，不画浏览器外框）。（2026-11-03 起 VoiceFlow 作品页不再放胶囊演示：首页已有一处，一个作品只留一个演示。）
   4. 黑色关键结果条。
   5. 左侧项目信息（桌面端吸顶）。
   6. 分节正文（章节配图 `shot` 在手机上也用整张，不再裁成一张卡片——v26.9 他说裁出来的卡片像「残留」），按 Apple 产品页的叙事：先是故事（第一节标题是结论），再是三个结论式章节（每节一句结论做标题，可带数字 `metrics` 和配图 `shot`），然后「技术细节」（`tech: true` 的边界、架构、取舍、验证、历程收进一个可展开的 `<details>`），最后「还差什么」始终展开。区块类型有：`p`、`metrics`、`flow`（架构或流程）、`scope`（做 / 不做）、`table`（决定 / 原因 / 放弃的方案）、`list`、`timeline`、`after`。
@@ -122,7 +122,7 @@
 
 ## 完成的定义
 
-2026-11-03（Codex）：VoiceFlow 作品页补充开发版按住说话的进展，明确尚未进入正式下载版；作品页移除与首页重复的胶囊演示，保留官网截图和首页演示。公开内容与私有履历仍分开生成。验证和提交记录以本次 Git 历史为准。
+2026-11-03（Codex）：VoiceFlow 作品页补充开发版按住说话的进展，明确尚未进入正式下载版；作品页移除与首页重复的胶囊演示，保留官网截图和首页演示。公开内容与私有履历仍分开生成。验证和提交记录以本次 Git 历史为准。同日 v0.3.12 正式发布，作品页改成正式功能的说法，见 CLAUDE.md 决策记录 2026-11-03「VoiceFlow v0.3.12」。
 ```bash
 npm install            # 仅开发工具
 npm run build

diff --git a/CLAUDE.md b/CLAUDE.md
@@ -11,7 +11,7 @@
 - **主张**：他自己写过的「先立边界，再把概率压成确定性。」三个作品都是这个动作。但它是方法论，不放首屏标题（他否了），只在作品页和分享区体现。
 - **AI 视觉作品**（v5–v21 的画廊，v22 起被影片取代，v24 删掉了图片和样式）：取自简历作品链接里的图（人台→AI 模特、服装上身图、猫头形象包装延展、AI 人像、AI 场景）。不放其中的香奈儿（品牌 logo）、蜘蛛侠、小丑（版权角色）。以后要放回，原图不在仓库，要他重新提供。
 - **作品**：
-  - VoiceFlow：github.com/qinxujunai/VoiceFlow；2026-11-02 核对的最新正式版为 v0.3.11，版本会变化，请查看仓库 Release。
+  - VoiceFlow：github.com/qinxujunai/VoiceFlow；2026-11-03 核对的最新正式版为 v0.3.12（按住说话），版本会变化，请查看仓库 Release。
   - AI Signal：github.com/qinxujunai/ai-signal。网站 qinxujunai.github.io/ai-signal/ 是产品主页，当天全文在 `latest/`，另有 RSS；v4.1.0（2026-10-23）。
   - 万象成文：github.com/qinxujunai/Audio2Text；2026-11-02 核对的最新正式版为 v2.3.2，历史三轮 141/180 为 2026-10-22 提取基准，非本次重测。
   - ai.vibecoding：github.com/qinxujunai/qinxujun-ai-vibecoding，这是他的方法论。
@@ -42,6 +42,8 @@
 **不是他的话**：2026-10-18 署名 Claude 的三次提交（461c9a0、b9416ed、3d7107f）把 ai.vibecoding 改写成了 11 章。这些内容不能当作他的原话引用。
 
 ## 决策记录
+
+- 2026-11-03 起、2026-11-07 上线（Claude）「VoiceFlow v0.3.12」：v0.3.12 发布了（按住 F2 或右 Ctrl 说话，松开结束，轻按仍可切换）。他说网站「不能还停留在过去」，VoiceFlow 的网站、README、本站和求职站都要按新版本更新，演示只留代码写的那一个，并同意了方案（「按方案做」）。VoiceFlow 那边（VoiceFlow 1458f4e）：官网首屏改为「按住说话，松开成文。」，删掉静态胶囊图，README 只留一个演示。本站改了这些字（他同意的范围，`copy.lock.json` 已更新）：首页 VoiceFlow 演示的提示「按住说话，松开就输入」；`line`「按住 F2 说话，字直接打在光标处」；作品页标题「按住说话，松开，文字就出现在光标处。」；结果条「926 项 · v0.3.12 自动化测试（2026-11-03）」；起因补一句「从 v0.3.12 起，按住 F2 或右 Ctrl 说话、松开结束，也保留轻按切换。」；验证「v0.3.12 于 2026 年 11 月 3 日通过 926 项自动化测试；v0.3.3 时是 396 项。」；历程加 v0.3.12 一行；图片说明跟着官网的新标题改；英文同步。「16 次 · 截至 2026-10-22 的正式发布」没改，要不要换成新数字等他定。作品页顶部的官网图按新首屏重截（`site-voiceflow*`）：这张图大部分是大字，原来的压缩质量 58 会让字边发虚，改成 80（`media.mjs` 的 `quality`，只对 VoiceFlow 这张图）。独立审查（11-03 那次被额度上限打断，11-07 重跑）另外提出，这几项已修：① 首页演示里 F2 键原来是「按一下开始、再按一下结束」的节奏（只在开头和结尾亮），和「按住说话」矛盾，`assets/site.js` 改成按下后一直亮到说完才松开（脚本不在文字锁里）；② `src/media.json` 里三张 VoiceFlow 图的路径是在 Windows 上生成的，带了反斜杠，已改回斜杠，`scripts/media.mjs` 同步改好，下次不会再出。两项没改，等他定：③ 历程那句「长句分段处不再多出句号」比 VoiceFlow 发布说明（「减少……标点仍可能出错」）说得满，保持他同意的原句没动，如要改成「少出多余的句号」（英文 fewer stray full stops），需要他点头再 `npm run lock`；④ 「16 次 · 截至 2026-10-22」的口径：现在 18 个版本标签、Release 页 17 条（含 2 个预览版，其中 15 个正式版），换成哪个数字等他定。验证：`npm run check` 通过；ship 的本地浏览器验收和播放器测试通过；本地中英、手机和电脑截图看过，0 报错、无横向溢出；首页演示每 50 毫秒取一次状态：F2 在说话期间一直亮，说完才松开，约 0.65 秒后字出现在光标处。
 
 - 2026-11-03（Claude）：他说 GitHub 上有些仓库没有价值，问哪些可以删，同意了我的建议，删掉 4 个：`rea`（别人项目的复刻）、`pet_care`（宠瑾安，10-22 已撤下）、`ask-data`（问数，10-23 已撤下）和本仓库清理前的私有存档 `qinxujunai.github.io-archive-20261102`。删前都在他电脑上做了完整备份，并和 GitHub 逐条核对一致；删后这 4 个都是 404，剩下 7 个仓库，星标不变，本站和各作品网站都是 200，`/ask-data/` 随仓库下线（本站不链接它）。本仓库只改了 AGENTS.md「历史与隐私」、问数那句和本文件「不放的东西」两条，页面不变。
 
